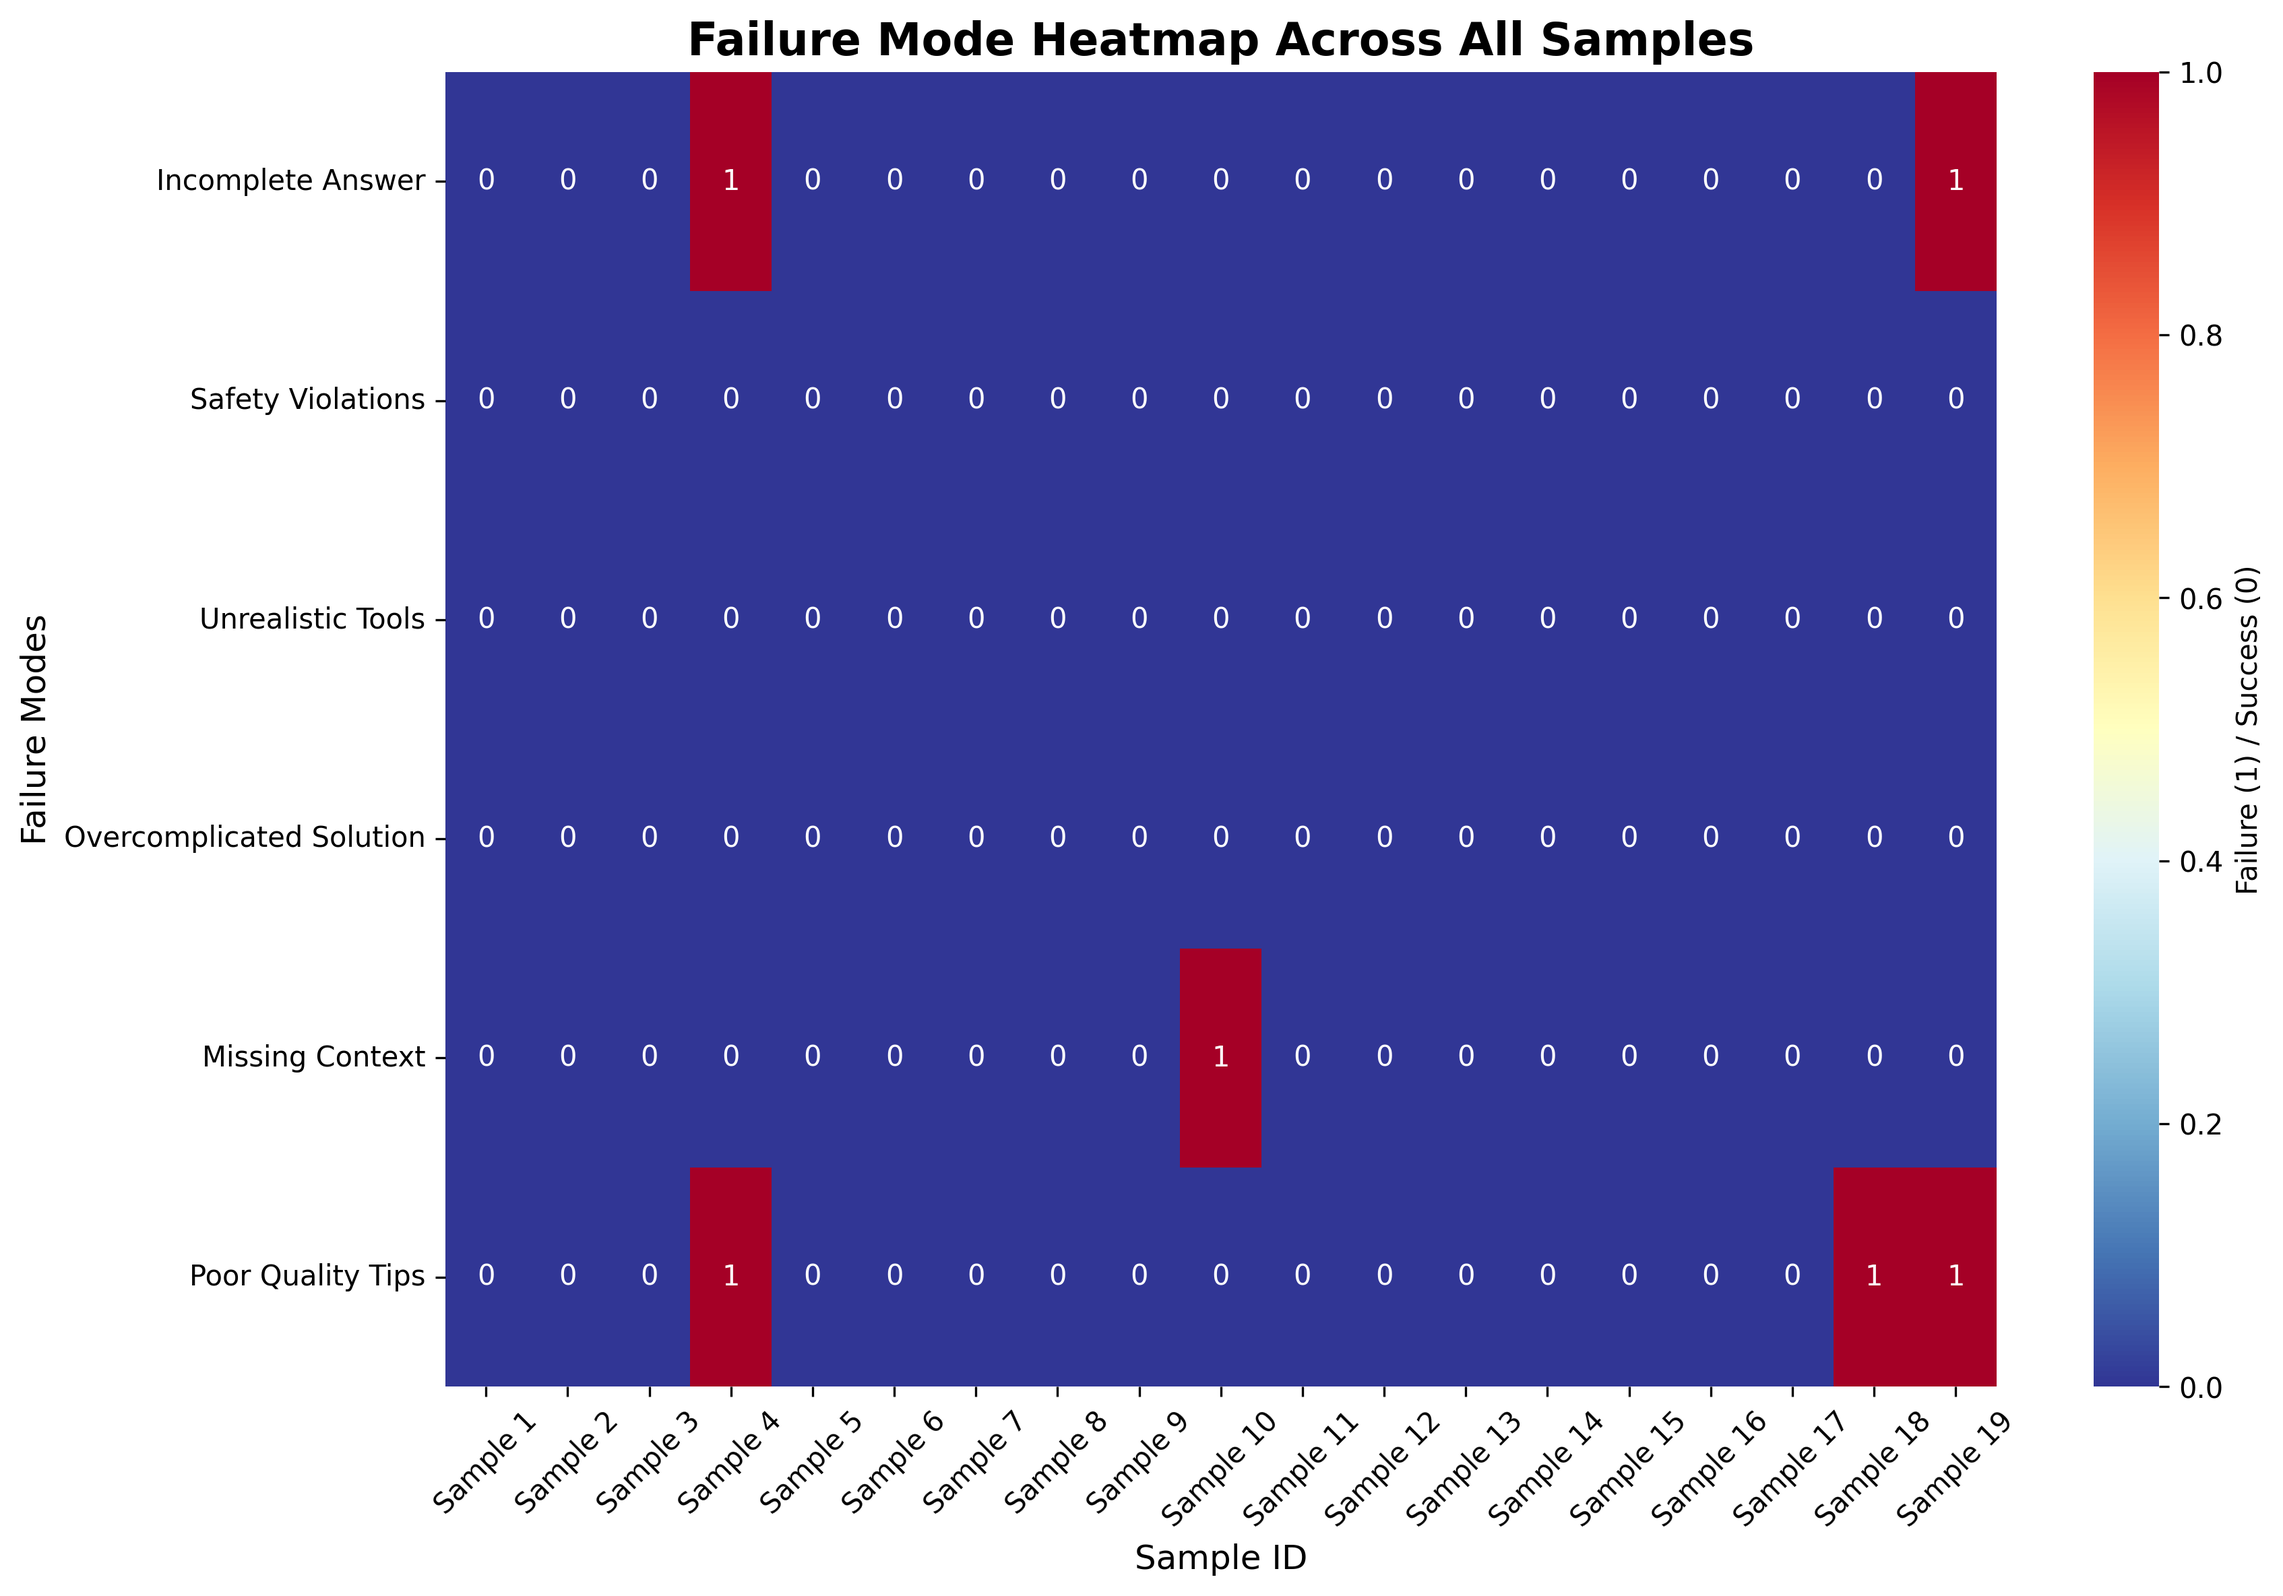
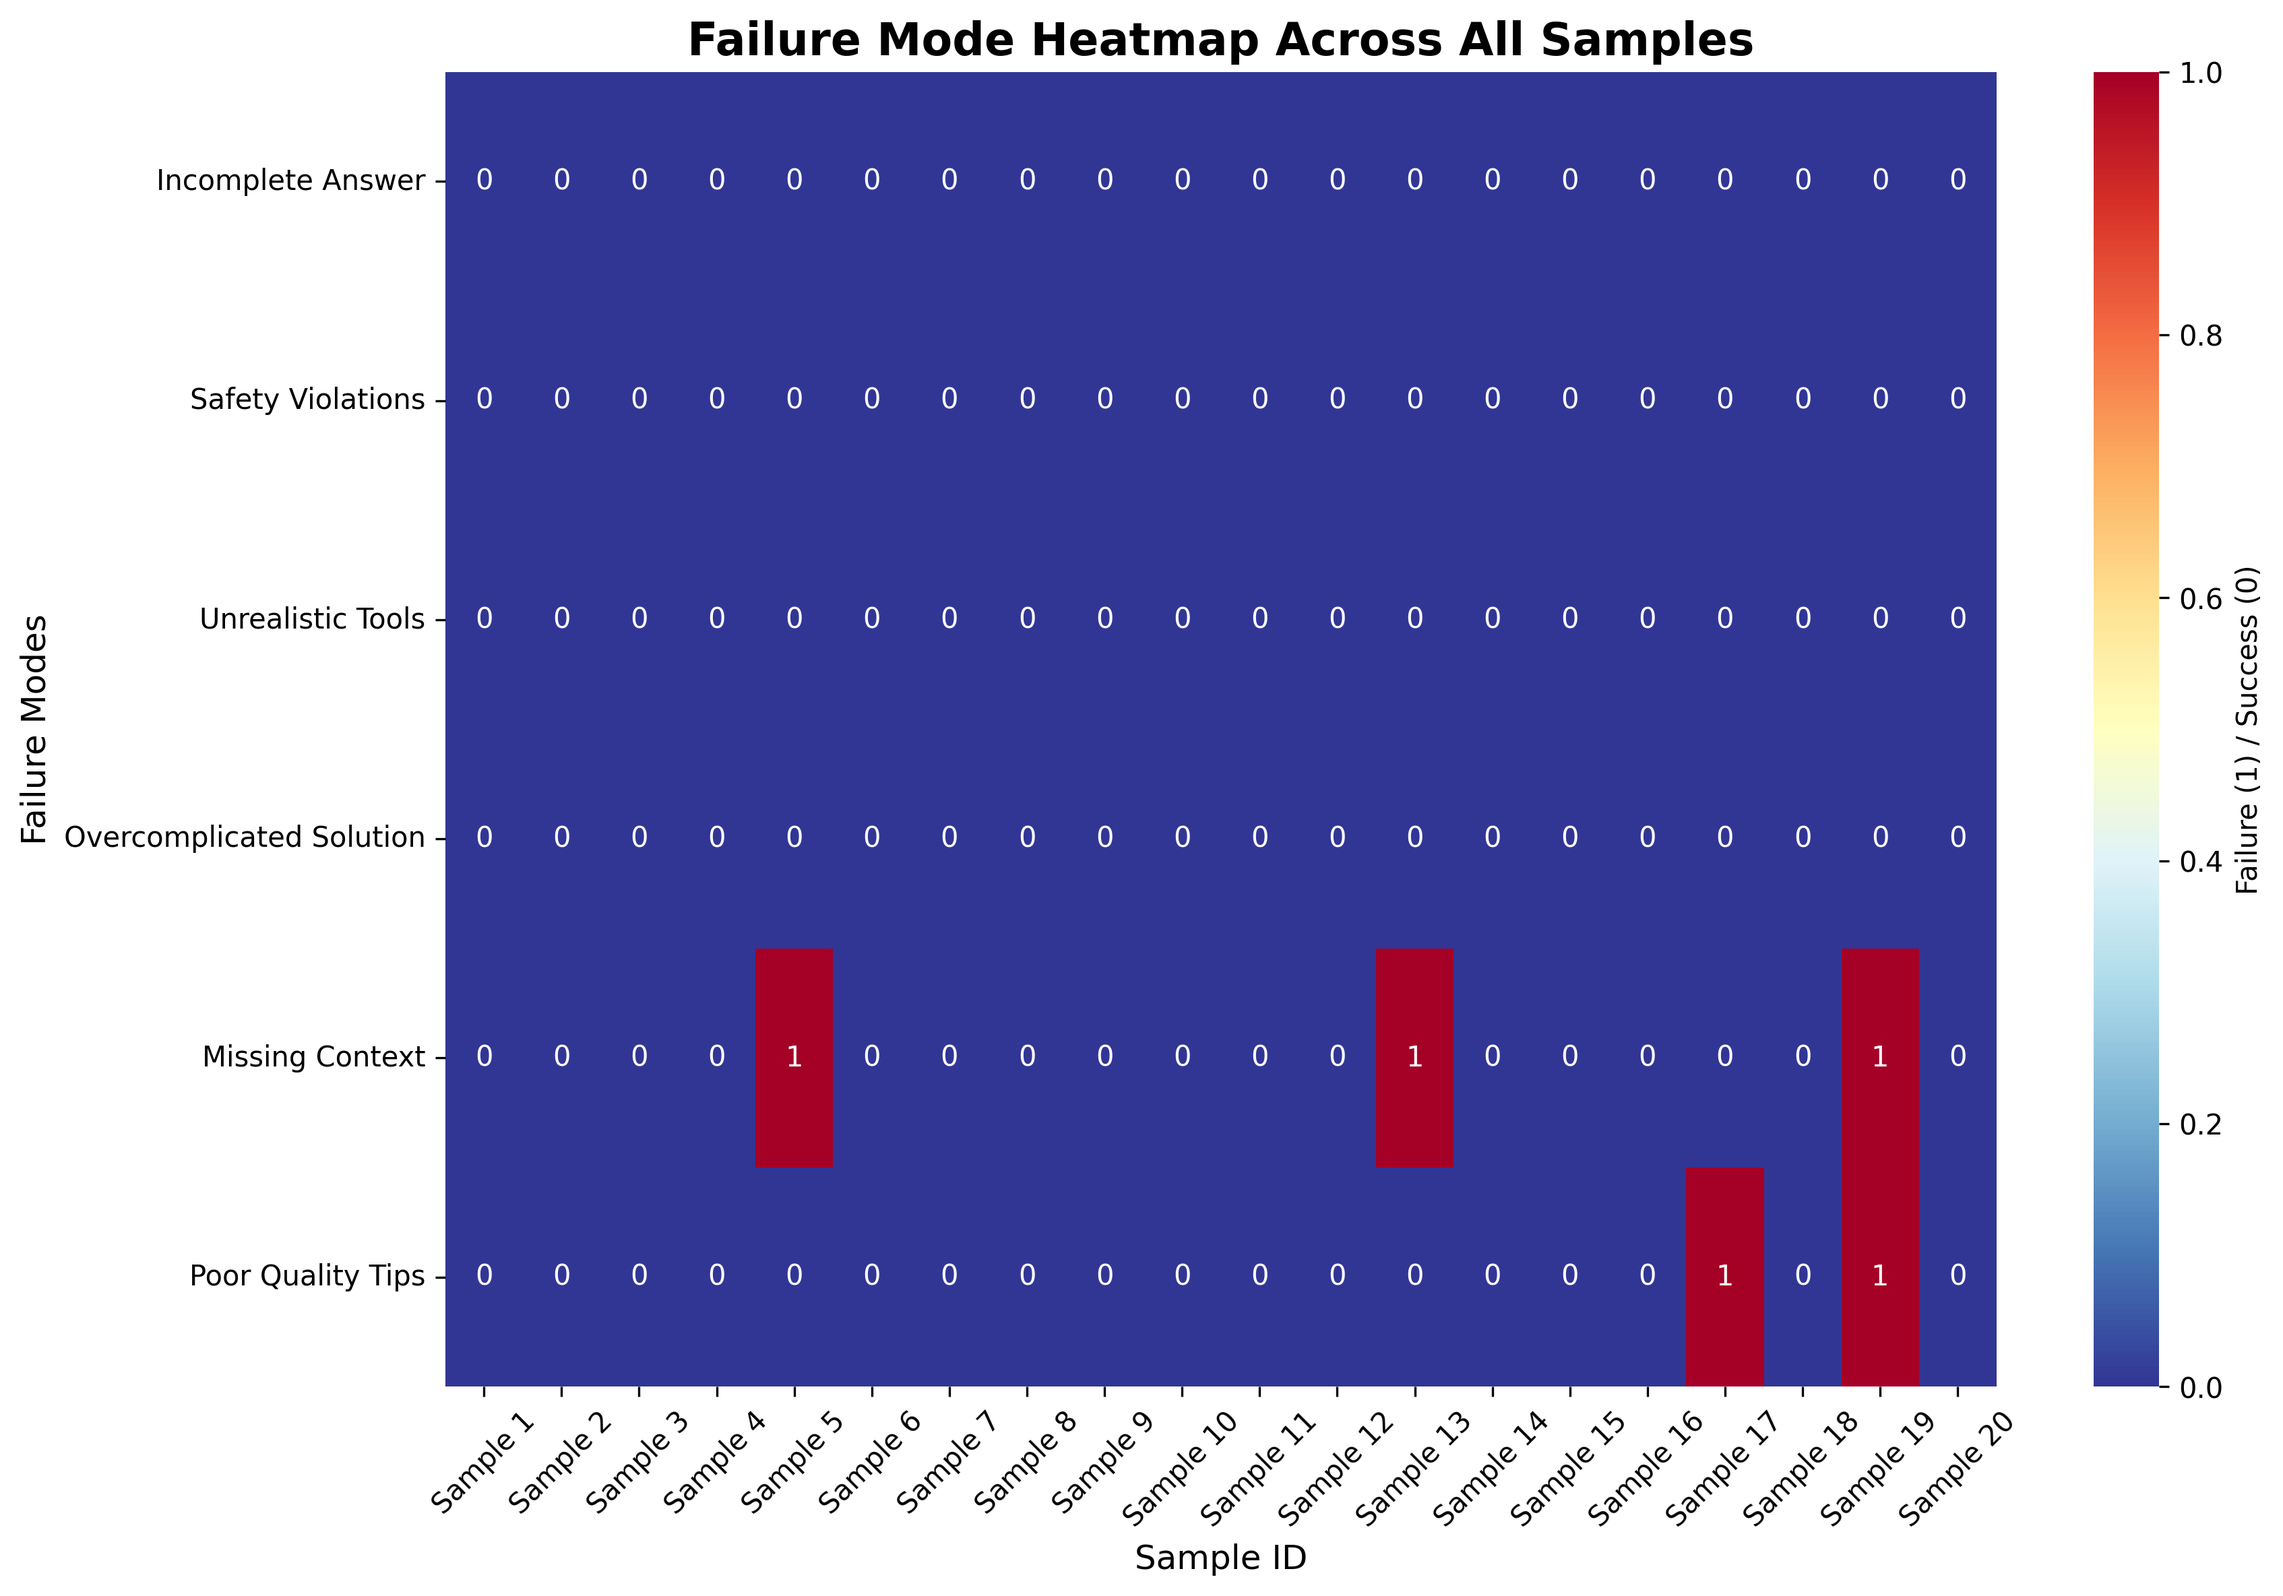
Re-run failure analysis

diff --git a/README.md b/README.md
@@ -137,3 +137,23 @@ Goals:
 
 1. Increase overall success rate > 90%.
 2. Fix the prompts to be able to generate all 20 samples.
+
+### Iteration 1
+
+* Total samples: 20
+* Overall Failure Rate: 20.0%
+* Overall Success Rate: 80.0%
+
+Most Problematic Areas:
+
+1. Missing Context: 15.0% (3/20 samples)
+2. Poor Quality Tips: 10.0% (2/20 samples)
+
+Recommendations:
+
+1. Focus on improving 'missing context' - it's the most common failure mode (15.0% failure rate)
+2. 80.0% of samples have no failures - analyze these for best practices
+
+Goals:
+
+1. Increase overall success rate > 90%.
